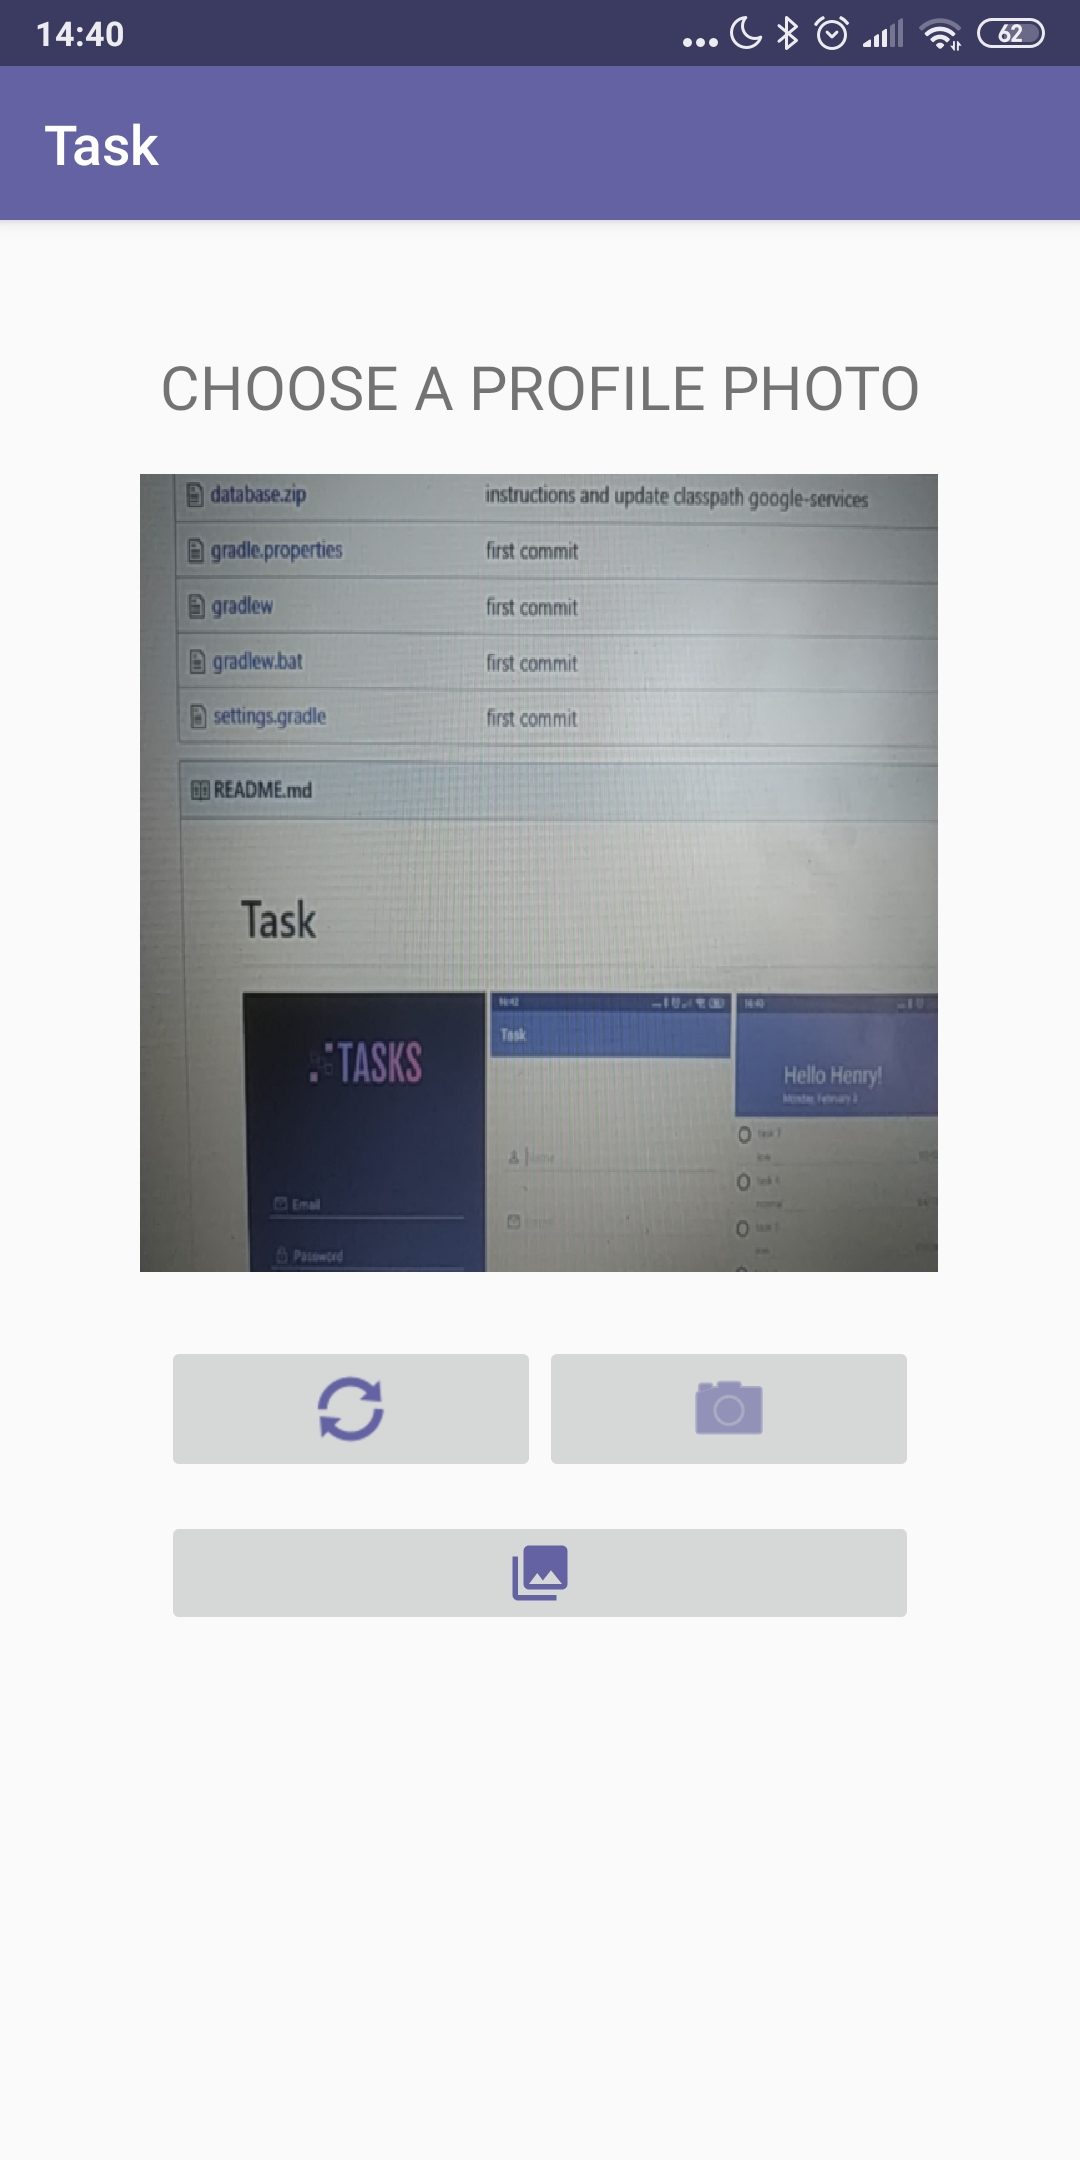
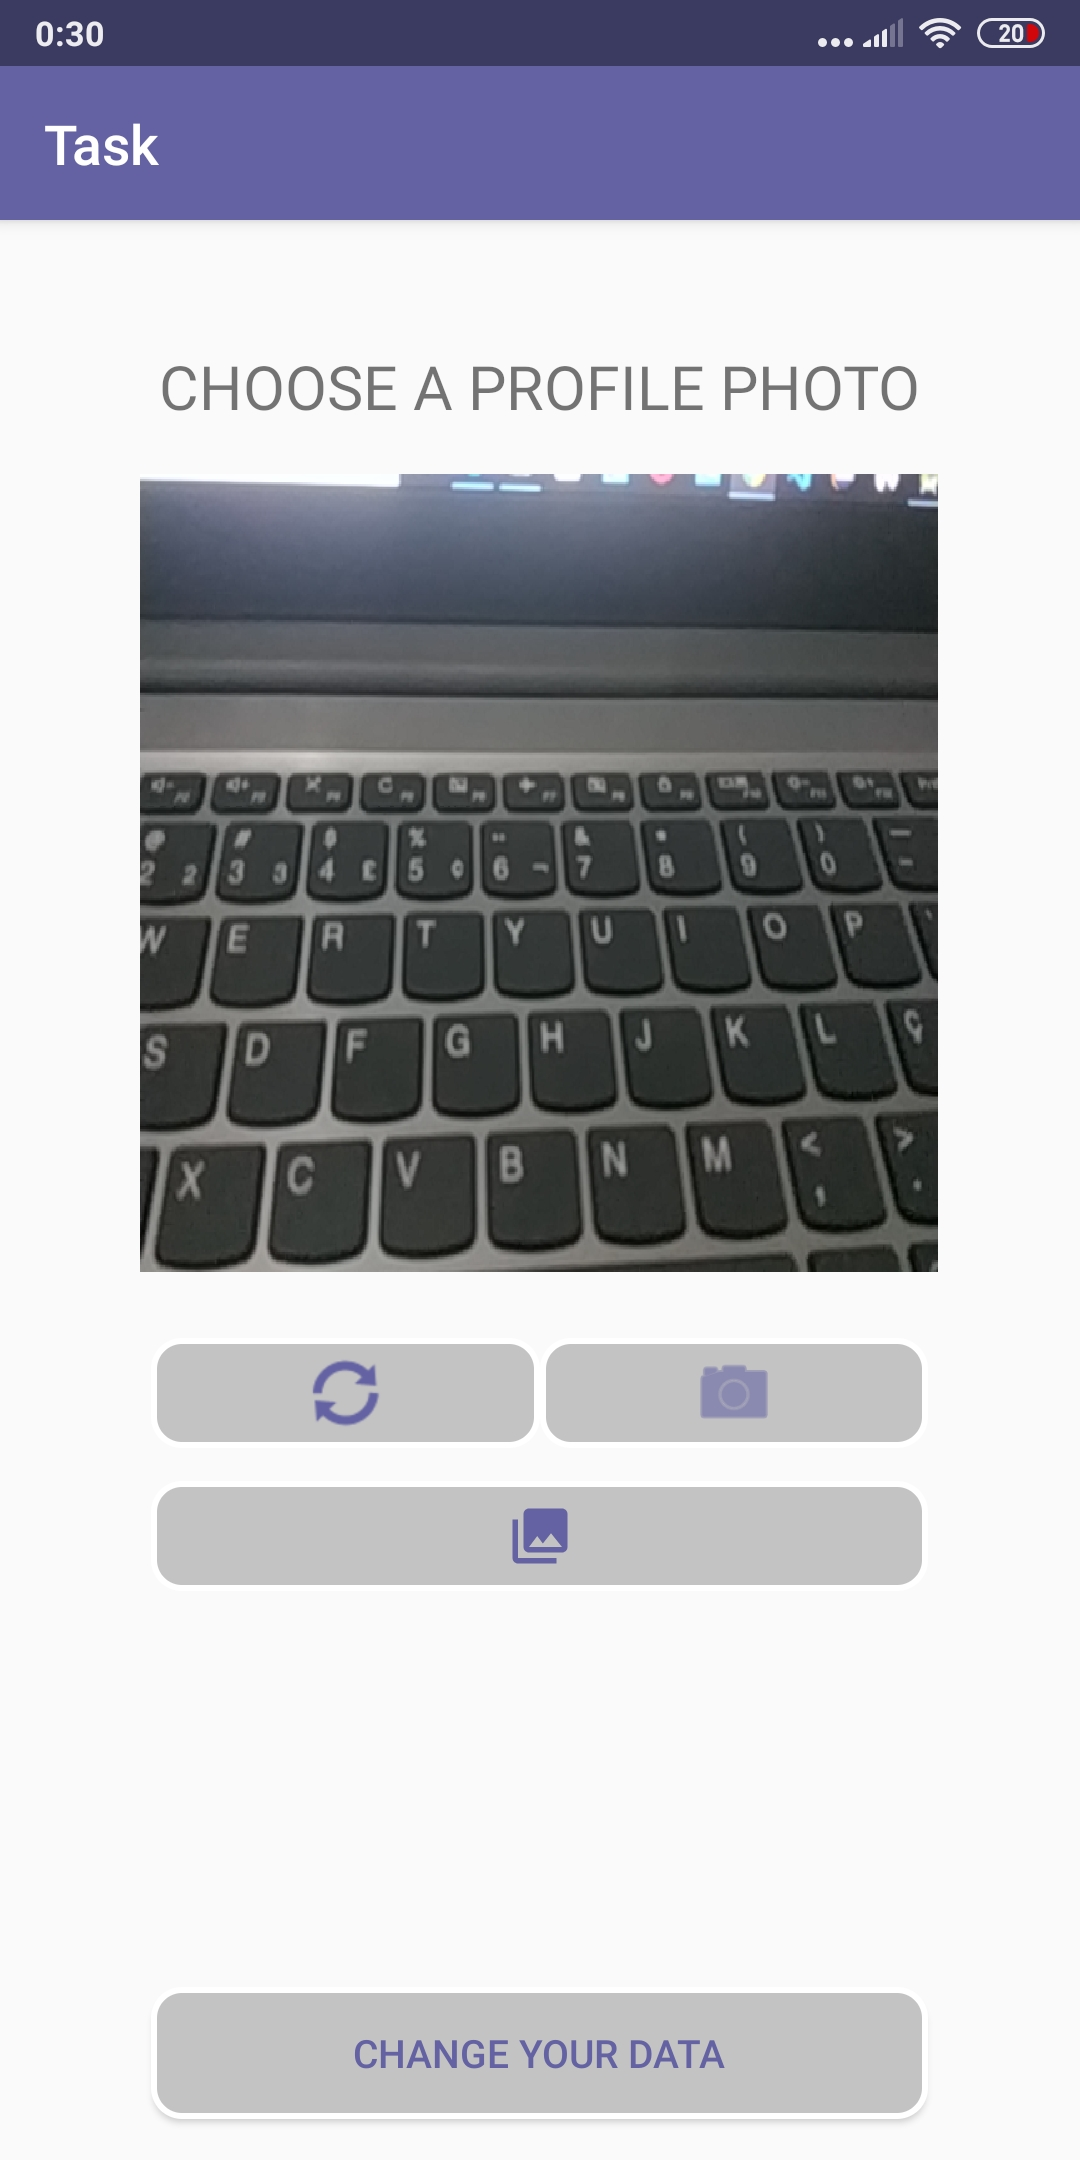
adjusting change user data activity and adding new screenshots

diff --git a/README.md b/README.md
@@ -10,6 +10,7 @@
         <image src="screenshots/deleting-task.jpg" width="200"/>
         <image src="screenshots/notification.jpg" width="200"/>
         <image src="screenshots/camera.jpg" width="200"/>
+        <image src="screenshots/edit-user.jpg" width="200"/>
 </div>
 
 *This app is used to book tasks, this project use Firebase's authentication to login and how database the Firebase Cloud Firestore.
